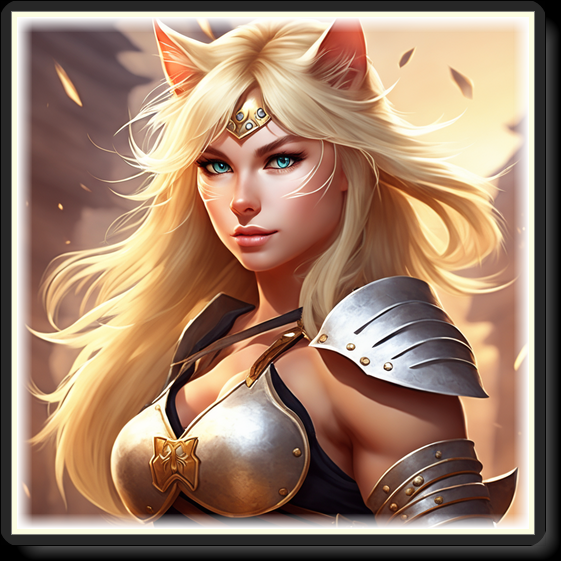
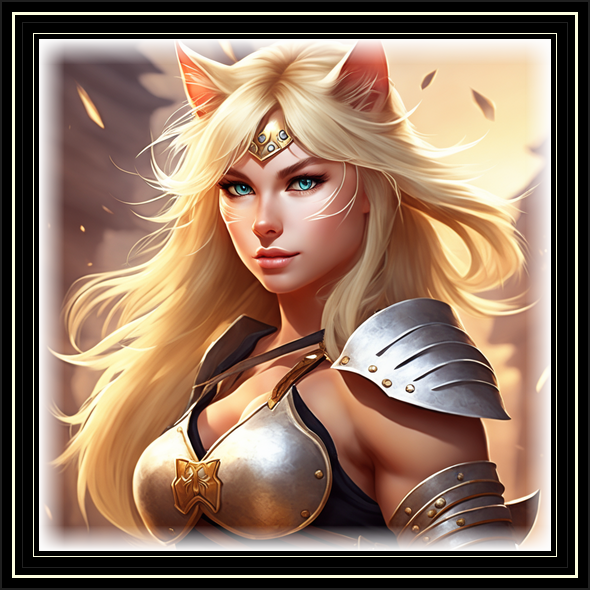
added 3rd style sheet

diff --git a/1-html/myWebPage2.html b/1-html/myWebPage2.html
@@ -1,42 +1,62 @@
-
 <!DOCTYPE html>
 <html lang="en">
+
 <head>
     <meta charset="utf-8">
     <meta name="viewport" content="width=device-width, initial-scale=1.0">
     <title>shortcuts</title>
     <link rel="stylesheet" href="stylesheet.css">
 </head>
+
 <body>
     <Header class="header">
-        <h1>What's more Halloween than Black Cats?</h1></Header>
+        <h1>What's more Halloween than Black Cats?</h1>
+    </Header>
     <p id="top"></p>
     <section class="gallery">
         <h2>Have You Picked Out Your Next Spooky Adventure?</h2>
-        
+
         <figure>
-        <a href="https://www.amazon.com/kindle-dbs/storefront?storeType=browse&node=154606011&ref_=navm_hdr_signin"><img src="catgirl-blackcat-halloween.png" id="image1" alt="catgirl with black ears reading with black cat" width="621" height="621" loading="lazy"></a><figcaption>Click The Images To Find Your Next Story!</figcaption></figure>
-    <figure>
-    <a href="https://books.google.com/"><img src="blackcat-reading-halloween.png" id="image2" alt="black cat reading spell book" width="621" height="713" loading="lazy"></a>
-    <figcaption>Fun AI Images Made On Following Links.</figcaption></figure>
-    <figure><a href="https://leonardo.ai/">
-    <img src="black-cat-reading-halloween2.png" id="image3" alt="black halloween cat reading" width="621" height="621" loading="lazy"></a>
-    <figcaption>Try Out AI Generated Images.</figcaption></figure>
-    <figure><a href="https://playgroundai.com/">
-    <img src="black-cat-reading-halloween3.png" id="image4" alt="black cat reading sticker" width="621" height="621" loading="lazy"></a>
-    <figcaption> </figcaption></figure>
-    <figure>
-    <img src="black-cat-reading-halloween4.png" id="image5" alt="black cat reading" width="621" height="621" loading="lazy">
-    <figcaption> </figcaption></figure>
-    <figure>
-    <img src="black-cat-reading-halloween5.png" id="image6" alt="black-cat-reading-halloween5" width="621" height="736" loading="lazy">
-    <figcaption> </figcaption></figure>
-    <figure>
-    <img src="black-cat-reading-halloween6.png" id="image7" alt="black-cat-reading-halloween6" width="621" height="651" loading="lazy"></figure></section>
-<br>
- <p><a href="#top">Back to the Top</a></p>  
-    
+            <a href="https://www.amazon.com/kindle-dbs/storefront?storeType=browse&node=154606011&ref_=navm_hdr_signin"><img
+                    src="catgirl-blackcat-halloween.png" id="image1"
+                    alt="catgirl with black ears reading with black cat" width="621" height="621" loading="lazy"></a>
+            <figcaption>Click The Images To Find Your Next Story!</figcaption>
+        </figure>
+        <figure>
+            <a href="https://books.google.com/"><img src="blackcat-reading-halloween.png" id="image2"
+                    alt="black cat reading spell book" width="621" height="713" loading="lazy"></a>
+            <figcaption>Fun AI Images Made On Following Links.</figcaption>
+        </figure>
+        <figure><a href="https://leonardo.ai/">
+                <img src="black-cat-reading-halloween2.png" id="image3" alt="black halloween cat reading" width="621"
+                    height="621" loading="lazy"></a>
+            <figcaption>Try Out AI Generated Images.</figcaption>
+        </figure>
+        <figure><a href="https://playgroundai.com/">
+                <img src="black-cat-reading-halloween3.png" id="image4" alt="black cat reading sticker" width="621"
+                    height="621" loading="lazy"></a>
+            <figcaption> </figcaption>
+        </figure>
+        <figure>
+            <img src="black-cat-reading-halloween4.png" id="image5" alt="black cat reading" width="621" height="621"
+                loading="lazy">
+            <figcaption> </figcaption>
+        </figure>
+        <figure>
+            <img src="black-cat-reading-halloween5.png" id="image6" alt="black-cat-reading-halloween5" width="621"
+                height="736" loading="lazy">
+            <figcaption> </figcaption>
+        </figure>
+        <figure>
+            <img src="black-cat-reading-halloween6.png" id="image7" alt="black-cat-reading-halloween6" width="621"
+                height="651" loading="lazy">
+        </figure>
+    </section>
     <br>
-  &lt; &lt; &lt; &copy;<a href="about.html">Mindy Anderson</a> &gt;&gt;&gt;
+    <p><a href="#top">Back to the Top</a></p>
+
+    <br>
+    &lt; &lt; &lt; &copy;<a href="about.html">Mindy Anderson</a> &gt;&gt;&gt;
 </body>
+
 </html>

diff --git a/1-html/Playing with Links.html b/1-html/Playing with Links.html
@@ -6,19 +6,18 @@
         <meta name="author" content="Mindy Anderson">
         <meta name="description" content="This site contains some of the things I've currently learned">
         <link rel="icon" href="blackCatIcon.png" type="image/x-icon">
-        <link rel="stylesheet" href="stylesheet2.css" type="text/css">
+        <link rel="stylesheet" href="stylesheet3.css" type="text/css">
         <title>Playing with coding/linking</title>
 
+    <h1>About Me:</h1>
+    </head>
 
-    <h1 id-="top">What have you read today?</h1>
-</head>
-
-<body>
-    <a href="https://www.amazon.com/kindle-dbs/storefront?storeType=browse&node=154606011&ref_=navm_hdr_signin"><img src="beautiful-warrior-catgirl-blond3.png" id="image4"alt="black cat reading sticker" width="50%"></a>
-    <p>Click on the picture to find your next adventure!</p>
+    <body>
+    <a href="myWebPage2.html"><img src="beautiful-warrior-catgirl-blond3.png" id="image4"alt="black cat reading sticker" width="561" height="561" loading="lazy"></a>
+    <p>Check Out My Web Page.</p>
     <p>To see some adorable <a href="myWebPage2.html">Halloween cats</a> click here.</p>
 
 
     <p><a href="#top">Back to top</a></p>
-</body>
+    </body>
 </html>

diff --git a/1-html/stylesheet3.css b/1-html/stylesheet3.css
@@ -1,0 +1,11 @@
+* {box-sizing: border-box}
+body {background:radial-gradient(circle,rgba(1,13,77,1)5%,rgba(7,0,19,1)97%);color:#3fdcf8;font-family:Georgia, 'Times New Roman', Times, serif;text-align: center; text-transform: uppercase;}
+.header {color:rgb(253,7,241); padding:2rem; border-bottom: .25rem solid #2602aa;}
+.gallery {display: flex; flex-direction: row; 
+    flex-wrap: wrap; align-items: center;
+    justify-content: center; gap:16; max-width: 87.5rem;margin: 0 auto; padding: 1.25rem .625rem;}
+.gallery image {width: 65%; max-width: 75%vw; 
+    height: 18.75rem; object-fit: cover;}
+a {color:rgb(253, 7, 241);}
+a:visited{color:rgb(213, 12, 253);}
+a:hover, a:active {color:#3fdcf8;}
